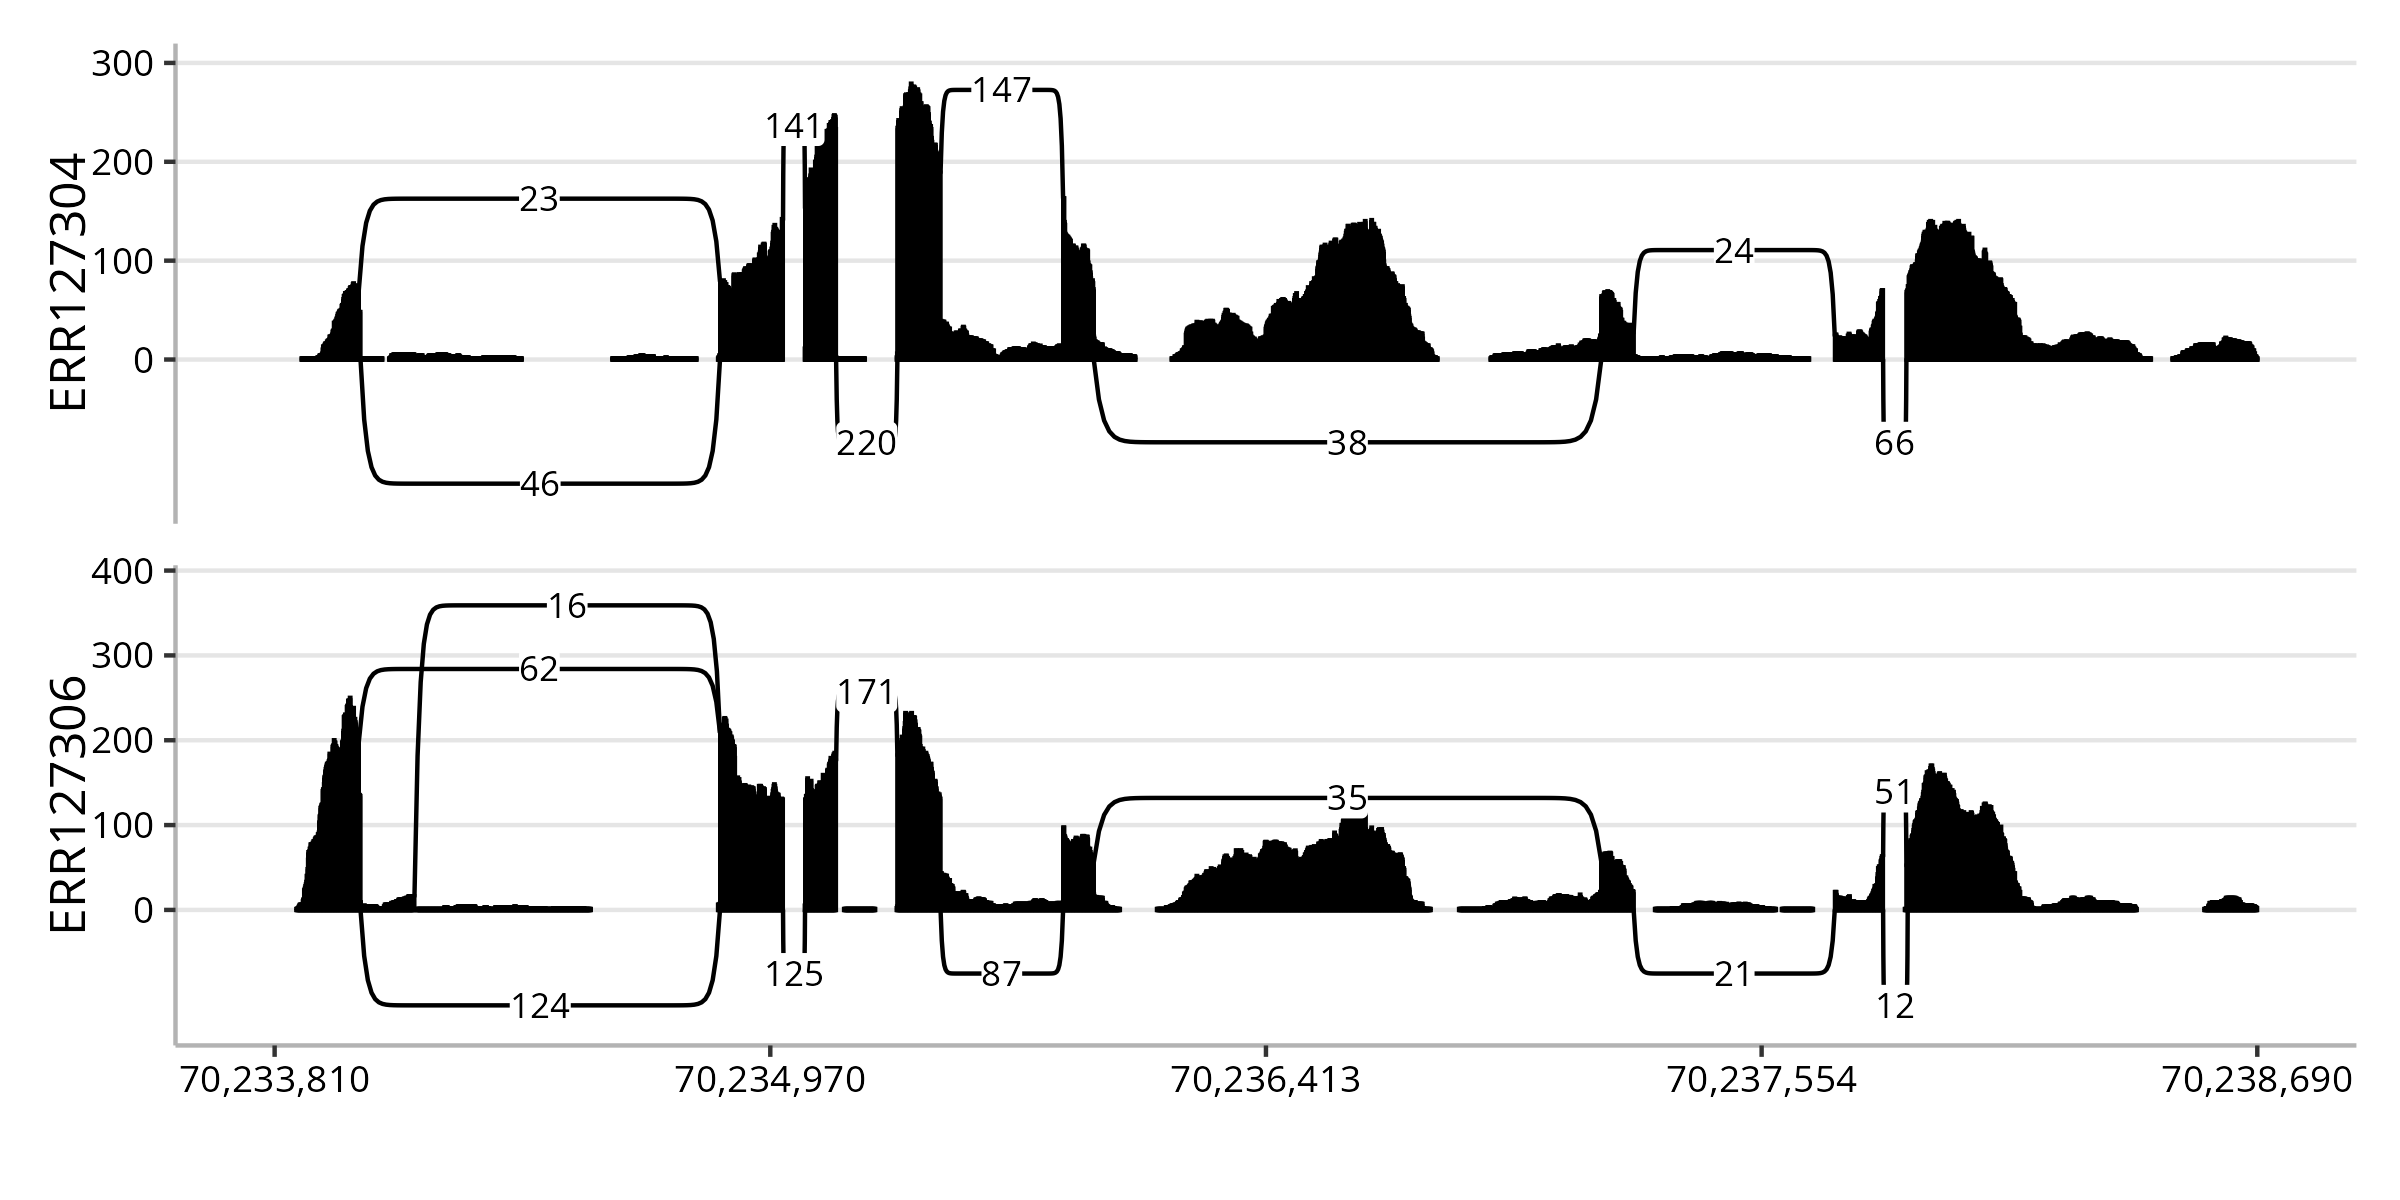
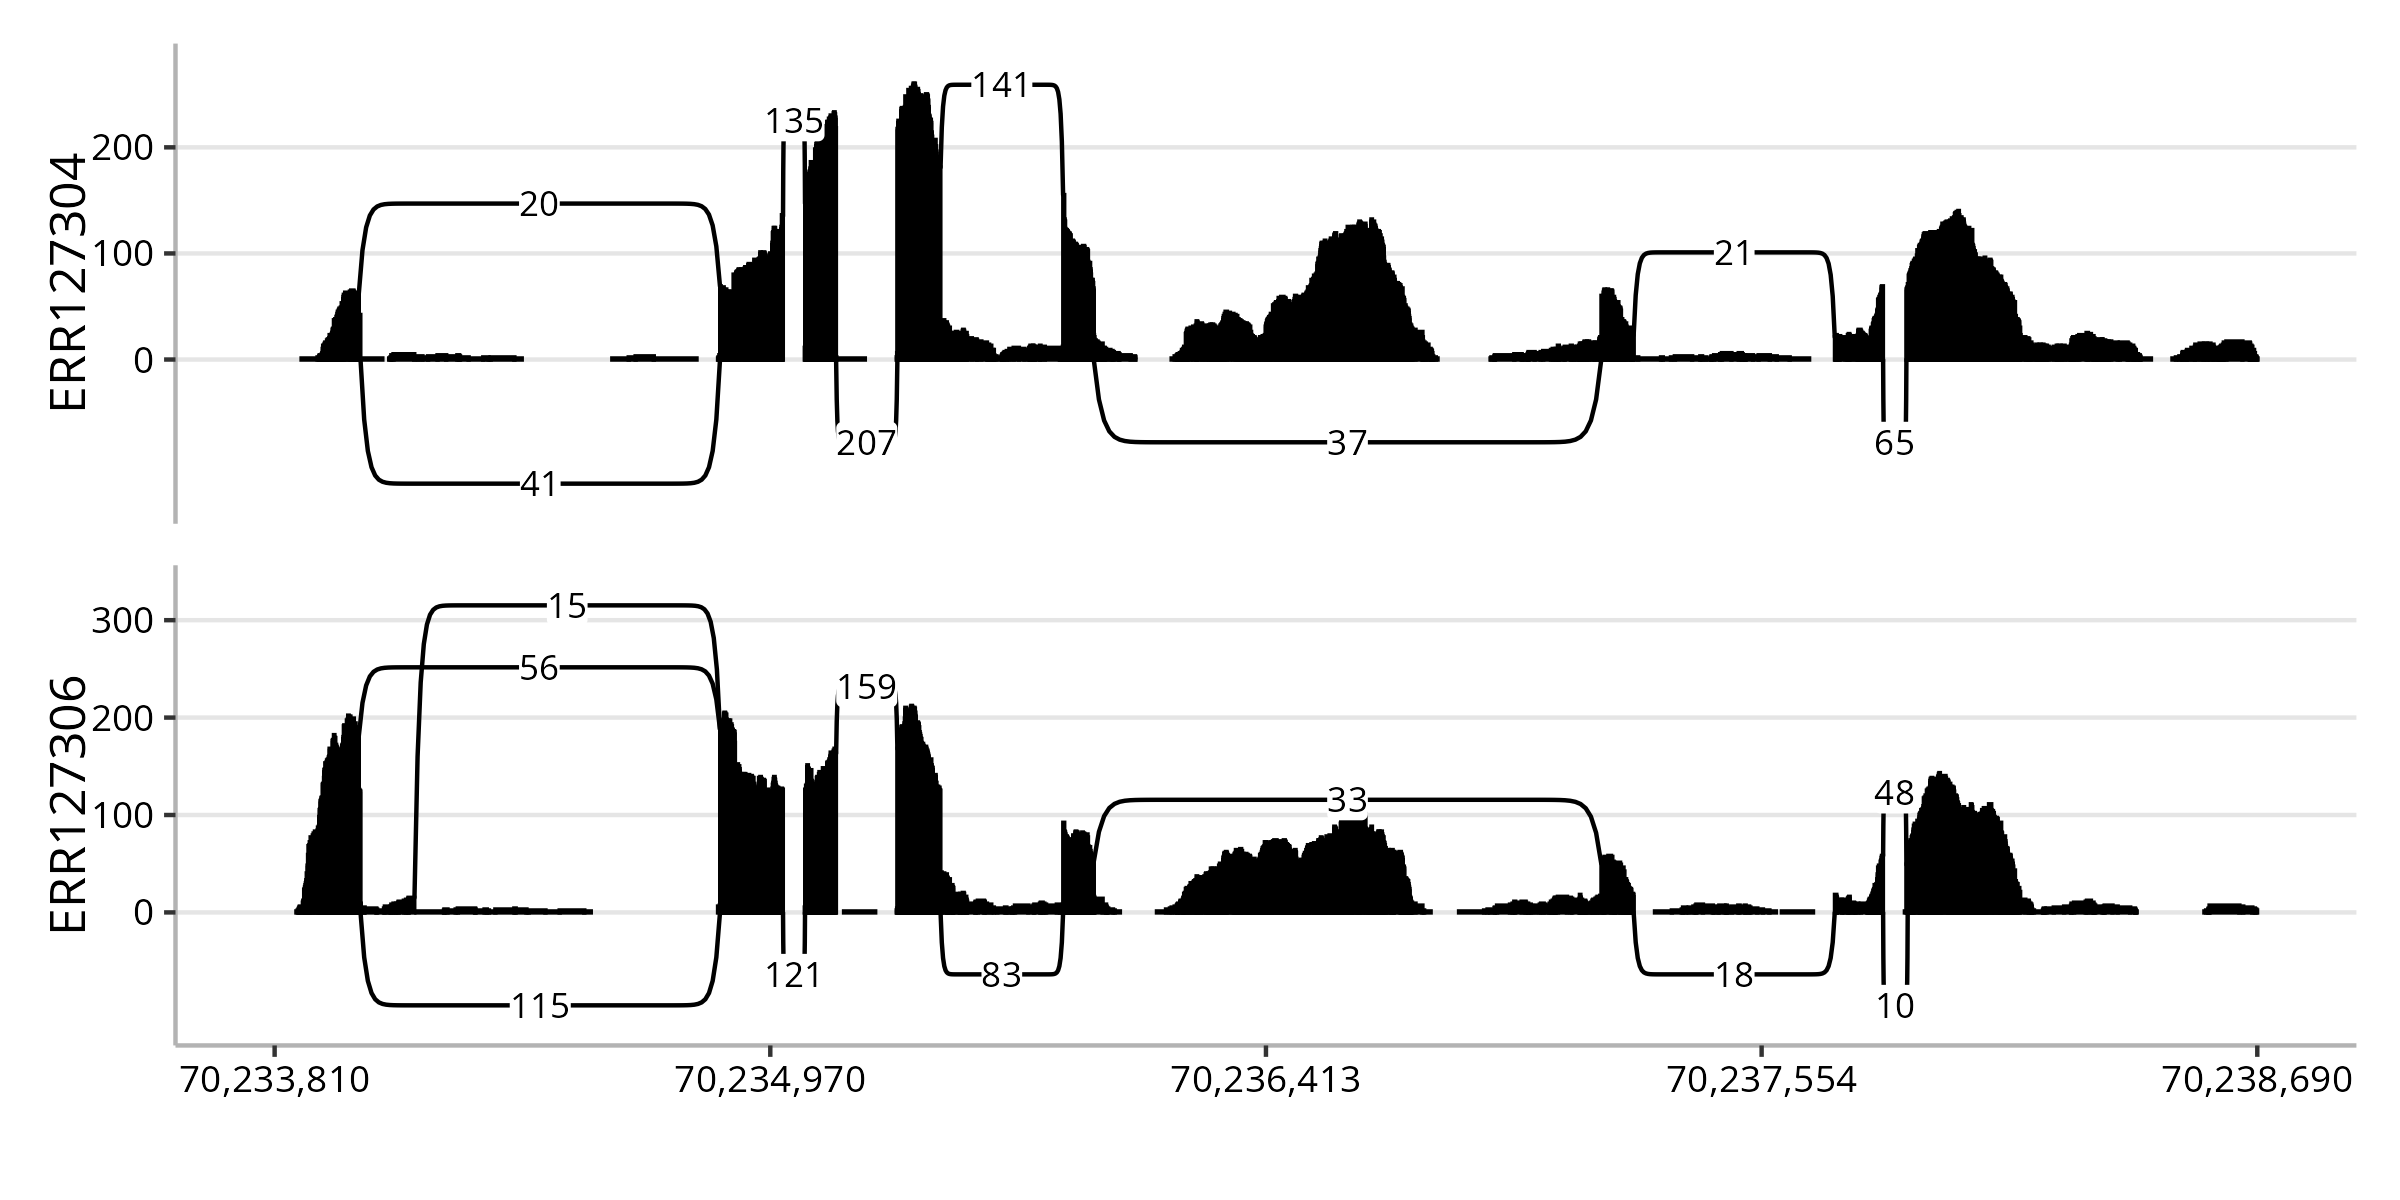
Refresh README example plot

diff --git a/README.md b/README.md
@@ -5,7 +5,8 @@
 [![BiocCheck](https://github.com/baerlachlan/spliceTerrain/actions/workflows/bioc-check.yaml/badge.svg?branch=gh-actions)](https://github.com/baerlachlan/spliceTerrain/actions/workflows/bioc-check.yaml)
 
 `spliceTerrain` is an R package for visualising RNA-seq splice patterns as sashimi plots.
-It combines coverage, splice junction arcs, and optional annotation tracks to show how transcripts are assembled across a genomic region.
+It combines fragment-level coverage, splice junction support, and optional
+transcript annotation to inspect local splicing patterns across a genomic region.
 `spliceTerrain` was designed to integrate seamlessly within the Bioconductor ecosystem, keeping the workflow entirely within R to support reproducible, customisable splicing visualisation for exploratory analysis, reporting, and publication-quality figures.
 
 ## Installation
@@ -35,4 +36,4 @@ region <- "chr14:70,233,810-70,238,690"
 spliceTerrain(bam = bams, region = region)
 ```
 
-![Basic sashimi plot of the SRSF5 gene region from BAM files in the RNAseqData.HNRNPC.bam.chr14 package](man/figures/quickstart.png)
+![Fragment-level sashimi plot of the SRSF5 gene region from BAM files in the RNAseqData.HNRNPC.bam.chr14 package](man/figures/quickstart.png)
